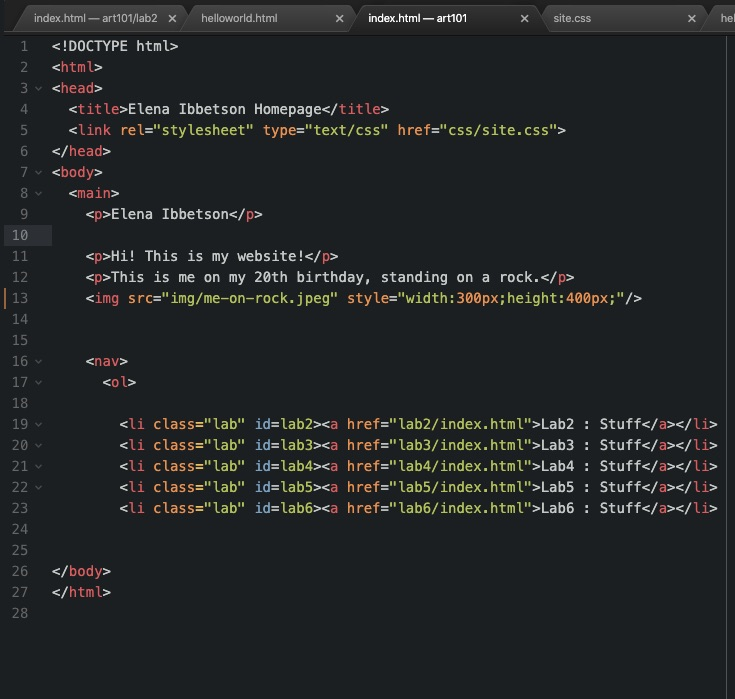
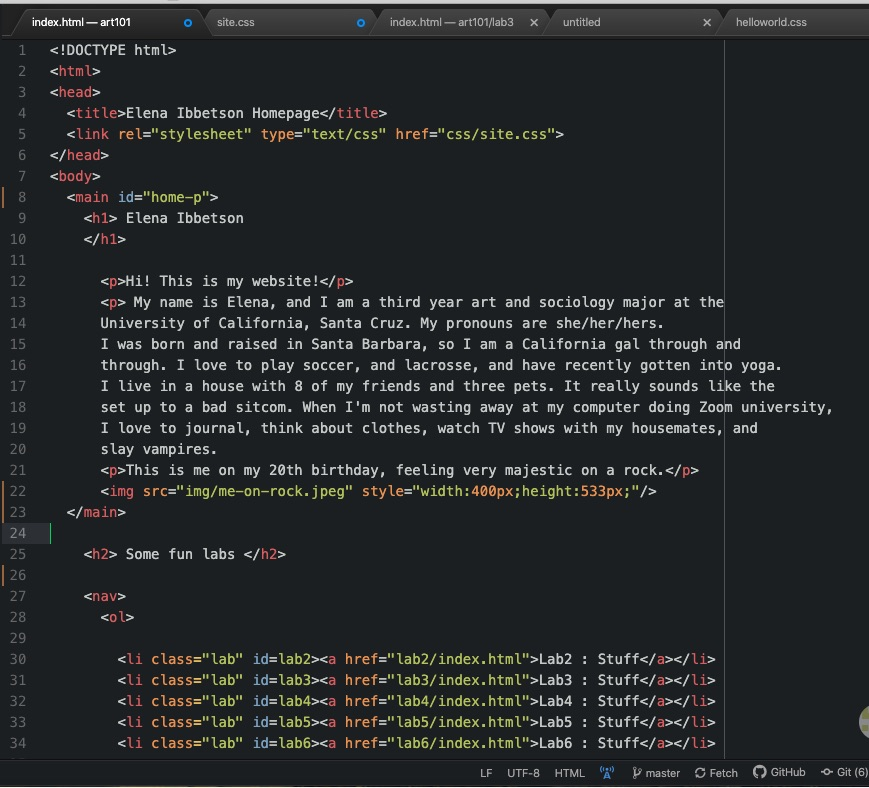
css changes
changed font style, size and alignment in site.css

Changed region(s): [[0.0, 0.0, 1.0, 1.0], [0.0, 0.2403, 0.0599, 0.9614]]

diff --git a/lab3/index.html b/lab3/index.html
@@ -20,11 +20,11 @@
       </figure>
 			<figure>
         	<img src="img/html-screenshot.jpg" width=400 alt="File Structure"/>
-        <figcaption> HTML of this homepage </figcaption>
+        <figcaption> HTML of this page </figcaption>
       </figure>
 			<figure>
-        	<img src="img/site-html-screenshot.jpg" width=400 alt="File Structure"/>
-        <figcaption> My homepage</figcaption>
+        	<img src="img/site-index-screenshot.jpg" width=400 alt="File Structure"/>
+        <figcaption> My homepage index file</figcaption>
       </figure>
 			<figure>
         	<img src="img/website-html.jpg" width=400 alt="File Structure"/>

diff --git a/index.html b/index.html
@@ -5,7 +5,7 @@
 	<link rel="stylesheet" type="text/css" href="css/site.css">
 </head>
 <body>
-	<main>
+	<main id="home-p">
 		<h1> Elena Ibbetson
 		</h1>
 
@@ -19,10 +19,10 @@
 			I love to journal, think about clothes, watch TV shows with my housemates, and
 			slay vampires.
 			<p>This is me on my 20th birthday, feeling very majestic on a rock.</p>
-		<img src="img/me-on-rock.jpeg" style="width:300px;height:400px;"/>
+			<img src="img/me-on-rock.jpeg" style="width:400px;height:533px;"/>
+	</main>
 
 		<h2> Some fun labs </h2>
-
 
 		<nav>
 			<ol>

diff --git a/css/site.css b/css/site.css
@@ -2,5 +2,17 @@
   color:yellow;
 }
 body main nav ol {background-color: pink}
+body {
+  font-family: georgia;
+  font-size: 120%;
+  text-align: left;
+  margin-left: 300px;
+  margin-right: 300px}
 
-p {font-family: arial;}
+
+}
+}
+}
+
+
+}
